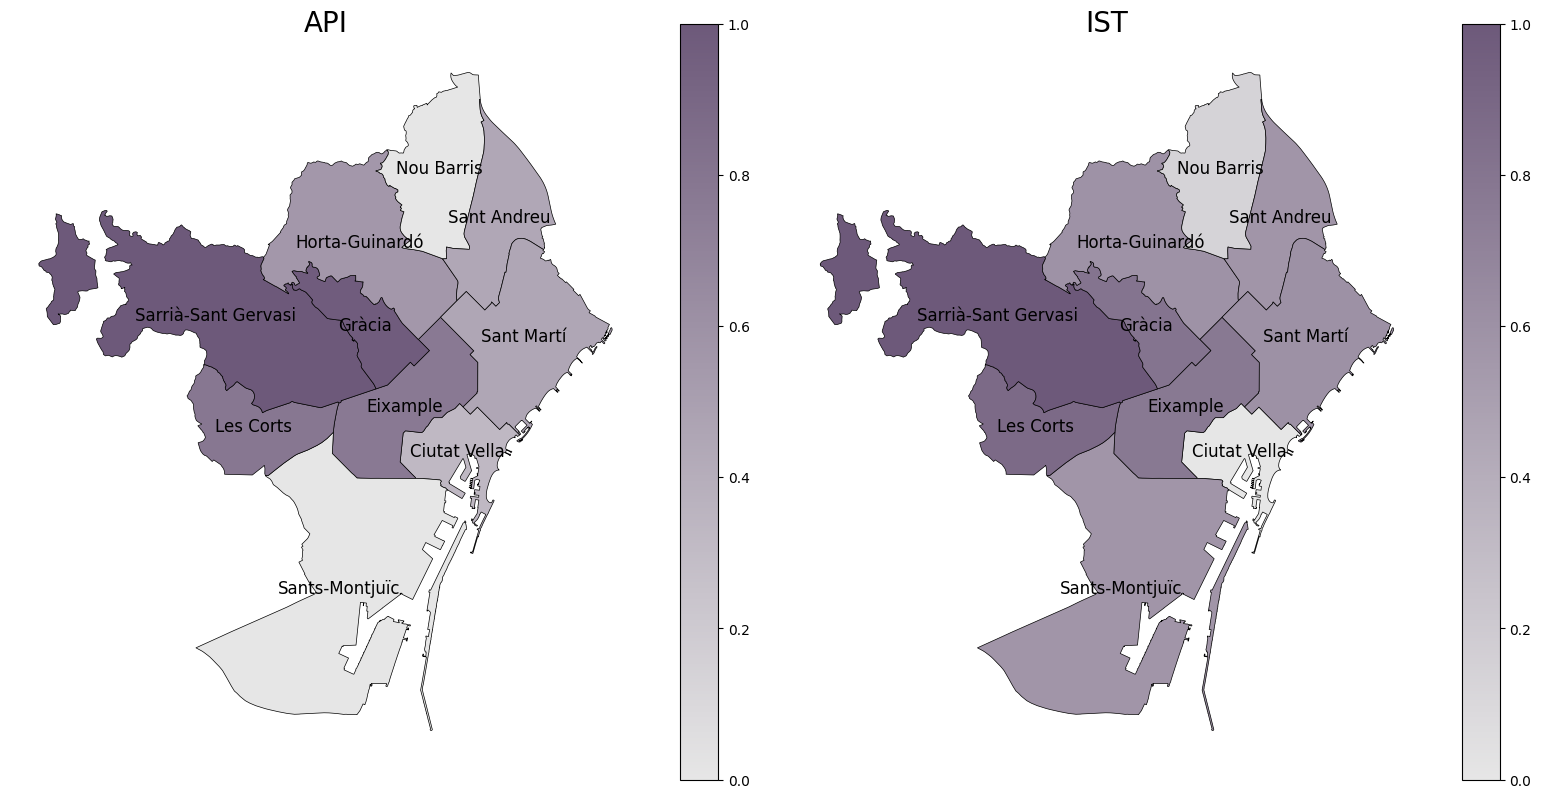
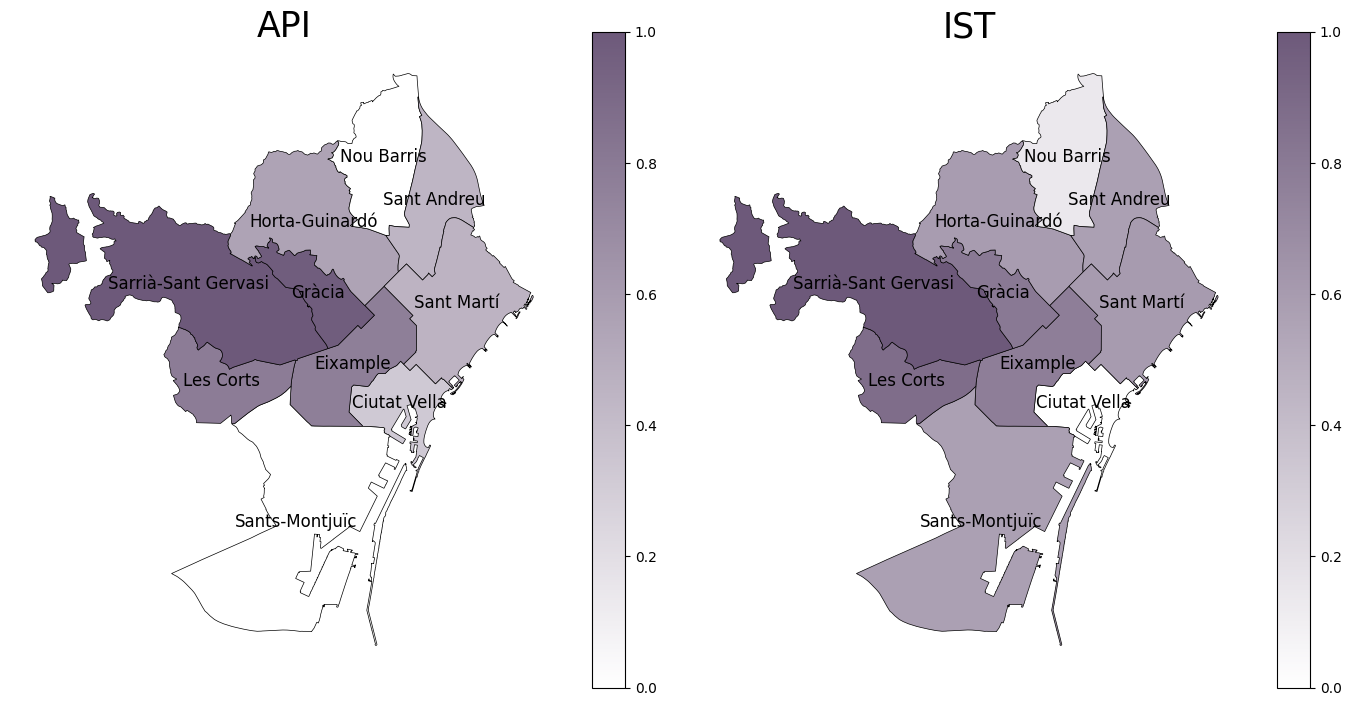
readme changes

diff --git a/README.md b/README.md
@@ -55,7 +55,7 @@ Formats include **CSV, XLSX and JSON**.
 ##  Repository Structure
 
 ```text
-├── data/ # Shared general datasets (raw or processed)
+├── data/ # Shared general datasets (raw)
 ├── data_Ana/ # Datasets used specifically by Ana
 ├── data_Ander/ # Datasets used specifically by Ander
 ├── data_Anna/ # Datasets used specifically by Anna
@@ -108,7 +108,7 @@ Focus:
 
 Academic Promotion Index
 
-Relationship between promotion and income by district
+Relationship between promotion and territorial socioeconomic index (IST) by district
 
 Correlation and regression analysis
 
@@ -117,9 +117,10 @@ District-level spatial maps
 Figures:
 
 ```markdown
-![Promotion vs Income](figures_ana/promotion_vs_income.png)
-![District Socioeconomic Map](figures_ana/district_map.png)
-![Correlation Analysis](figures_ana/correlation_analysis.png)
+![Promotion vs IST](figures_ana/ist-api.png)
+![District Socioeconomic Map](figures_ana/ist_maps.png)
+![Linear Regression Analysis](figures_ana/regresion_3.png)
+![Correlation Analysis](figures_ana/correlation.png)
 ```
 
 🏫 Anna Szymanski — Public vs Private School Inequalities
